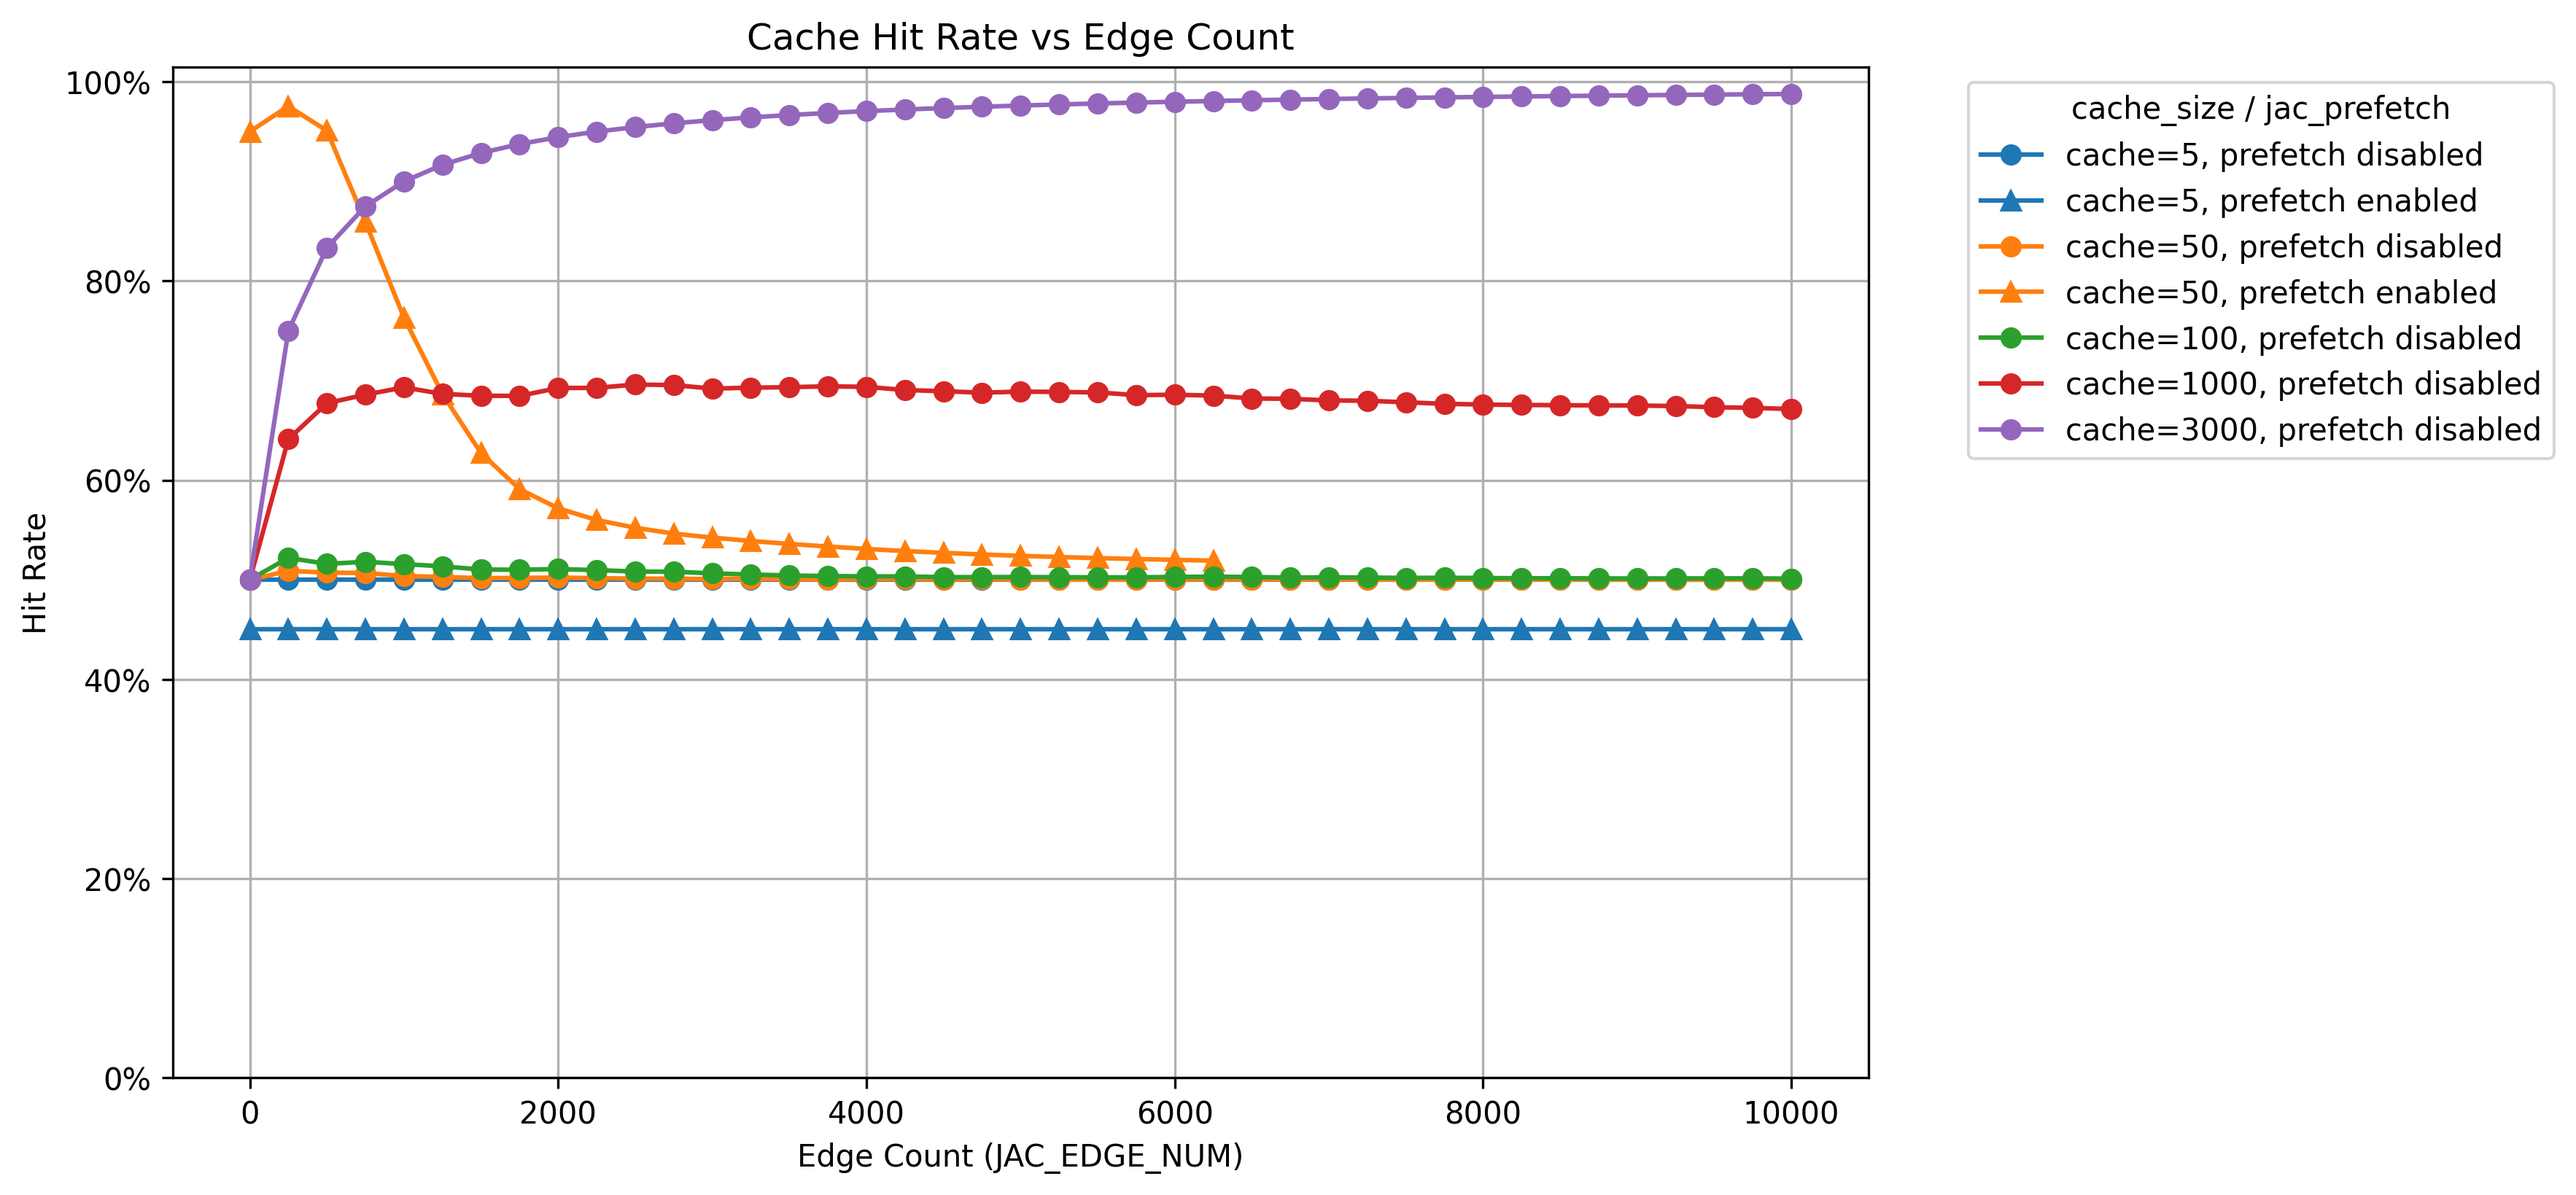
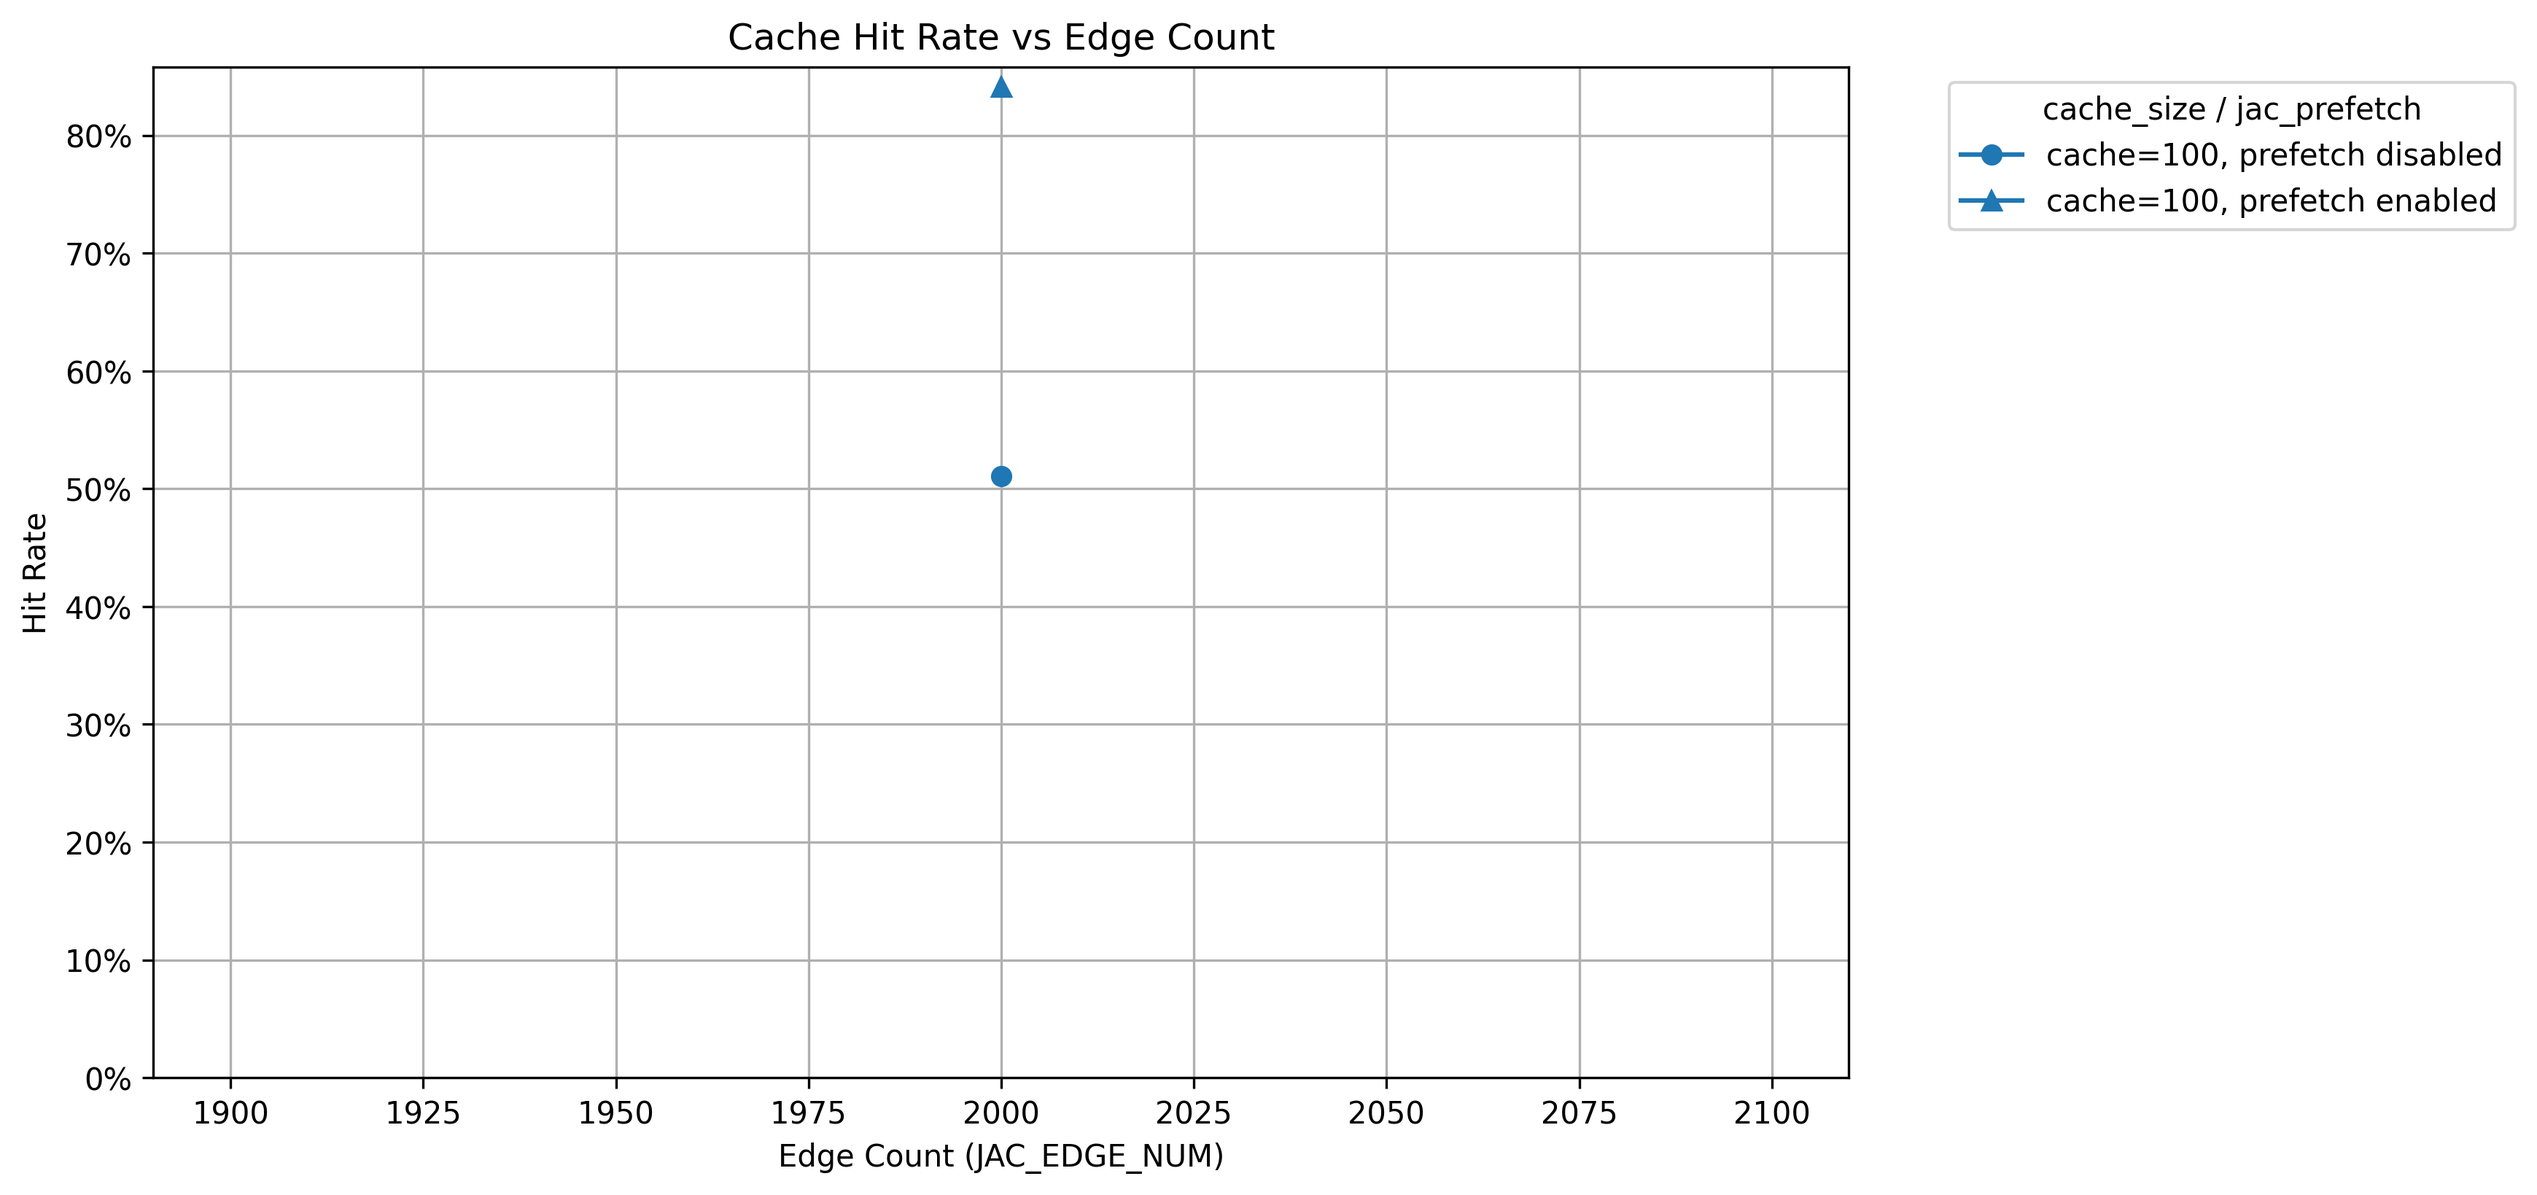
Refactor code structure for improved readability and maintainability

diff --git a/cache_plot_bar.py b/cache_plot_bar.py
@@ -1,0 +1,110 @@
+import json
+from pathlib import Path
+
+import matplotlib.pyplot as plt
+import pandas as pd
+from matplotlib.ticker import PercentFormatter
+
+
+def load_cache_stats(path: str | Path) -> pd.DataFrame:
+    """Load cache stats JSON and append hit_rate column."""
+
+    path = Path(path)
+    with path.open("r") as f:
+        data = json.load(f)
+
+    df = pd.DataFrame(data)
+    df["hit_rate"] = df["hit"] / df["total_acc"]
+    return df
+
+
+def aggregate_hit_rates(df: pd.DataFrame) -> pd.DataFrame:
+    """Aggregate hit rates per edge count for each cache/prefetch setting."""
+
+    grouped = (
+        df.groupby(["cache_size", "jac_prefetch", "JAC_EDGE_NUM"], as_index=False)
+        .agg(hit=("hit", "sum"), total_acc=("total_acc", "sum"))
+        .sort_values("JAC_EDGE_NUM")
+    )
+
+    grouped["hit_rate"] = grouped["hit"] / grouped["total_acc"].replace({0: pd.NA})
+    grouped["hit_rate"] = grouped["hit_rate"].fillna(0)
+    return grouped
+
+
+def plot_hit_rate_bars(
+    aggregated_df: pd.DataFrame,
+    figsize=(12, 6),
+    save_path: str | None = "cache_hit_rate_bar.png",
+):
+    """Plot hit rate vs edge count as grouped bars for each (cache_size, jac_prefetch) tuple."""
+
+    plt.figure(figsize=figsize)
+    
+    # Get unique values
+    edge_nums = sorted(aggregated_df["JAC_EDGE_NUM"].unique())
+    cache_sizes = sorted(aggregated_df["cache_size"].unique())
+    prefetch_vals = sorted(aggregated_df["jac_prefetch"].unique())
+    
+    # Assign colors based on cache size
+    colors = plt.cm.tab10(range(len(cache_sizes)))
+    color_map = {size: colors[i] for i, size in enumerate(cache_sizes)}
+    
+    # Calculate bar positions
+    n_groups = len(list(aggregated_df.groupby(["cache_size", "jac_prefetch"])))
+    bar_width = 0.8 / n_groups
+    x = range(len(edge_nums))
+    
+    # Plot bars for each configuration
+    for idx, (cache_size, jac_prefetch) in enumerate(aggregated_df.groupby(["cache_size", "jac_prefetch"]).groups.keys()):
+        subset = aggregated_df[(aggregated_df["cache_size"] == cache_size) & 
+                               (aggregated_df["jac_prefetch"] == jac_prefetch)]
+        ordered = subset.sort_values("JAC_EDGE_NUM")
+        
+        prefetch_status = "enabled" if jac_prefetch != 0 else "disabled"
+        label = f"cache={cache_size}, prefetch {prefetch_status}"
+        
+        # Use hatching for prefetch enabled vs disabled
+        hatch = "//" if jac_prefetch != 0 else None
+        
+        positions = [i + idx * bar_width - 0.4 + bar_width/2 for i in x]
+        plt.bar(
+            positions,
+            ordered["hit_rate"],
+            width=bar_width,
+            color=color_map[cache_size],
+            hatch=hatch,
+            label=label,
+            edgecolor='black',
+            linewidth=0.5,
+        )
+    
+    plt.xlabel("Edge Count (JAC_EDGE_NUM)")
+    plt.ylabel("Hit Rate")
+    plt.title("Cache Hit Rate vs Edge Count")
+    plt.xticks(x, edge_nums)
+    ax = plt.gca()
+    ax.yaxis.set_major_formatter(PercentFormatter(1.0))
+    ax.set_ylim(bottom=0)
+    plt.grid(True, axis='y', alpha=0.3)
+    plt.legend(title="cache_size / jac_prefetch", bbox_to_anchor=(1.05, 1), loc='upper left')
+
+    if save_path:
+        plt.savefig(save_path, dpi=300, bbox_inches='tight')
+        plt.close()
+        print(f"Saved plot to {save_path}")
+    else:
+        plt.show()
+
+
+def main() -> None:
+    dataset_path = Path("cache_stats.json")
+    if not dataset_path.exists():
+        raise FileNotFoundError("Could not find cache_stats.json in the current directory")
+
+    aggregated_df = aggregate_hit_rates(load_cache_stats(dataset_path))
+    plot_hit_rate_bars(aggregated_df)
+
+
+if __name__ == "__main__":
+    main()
